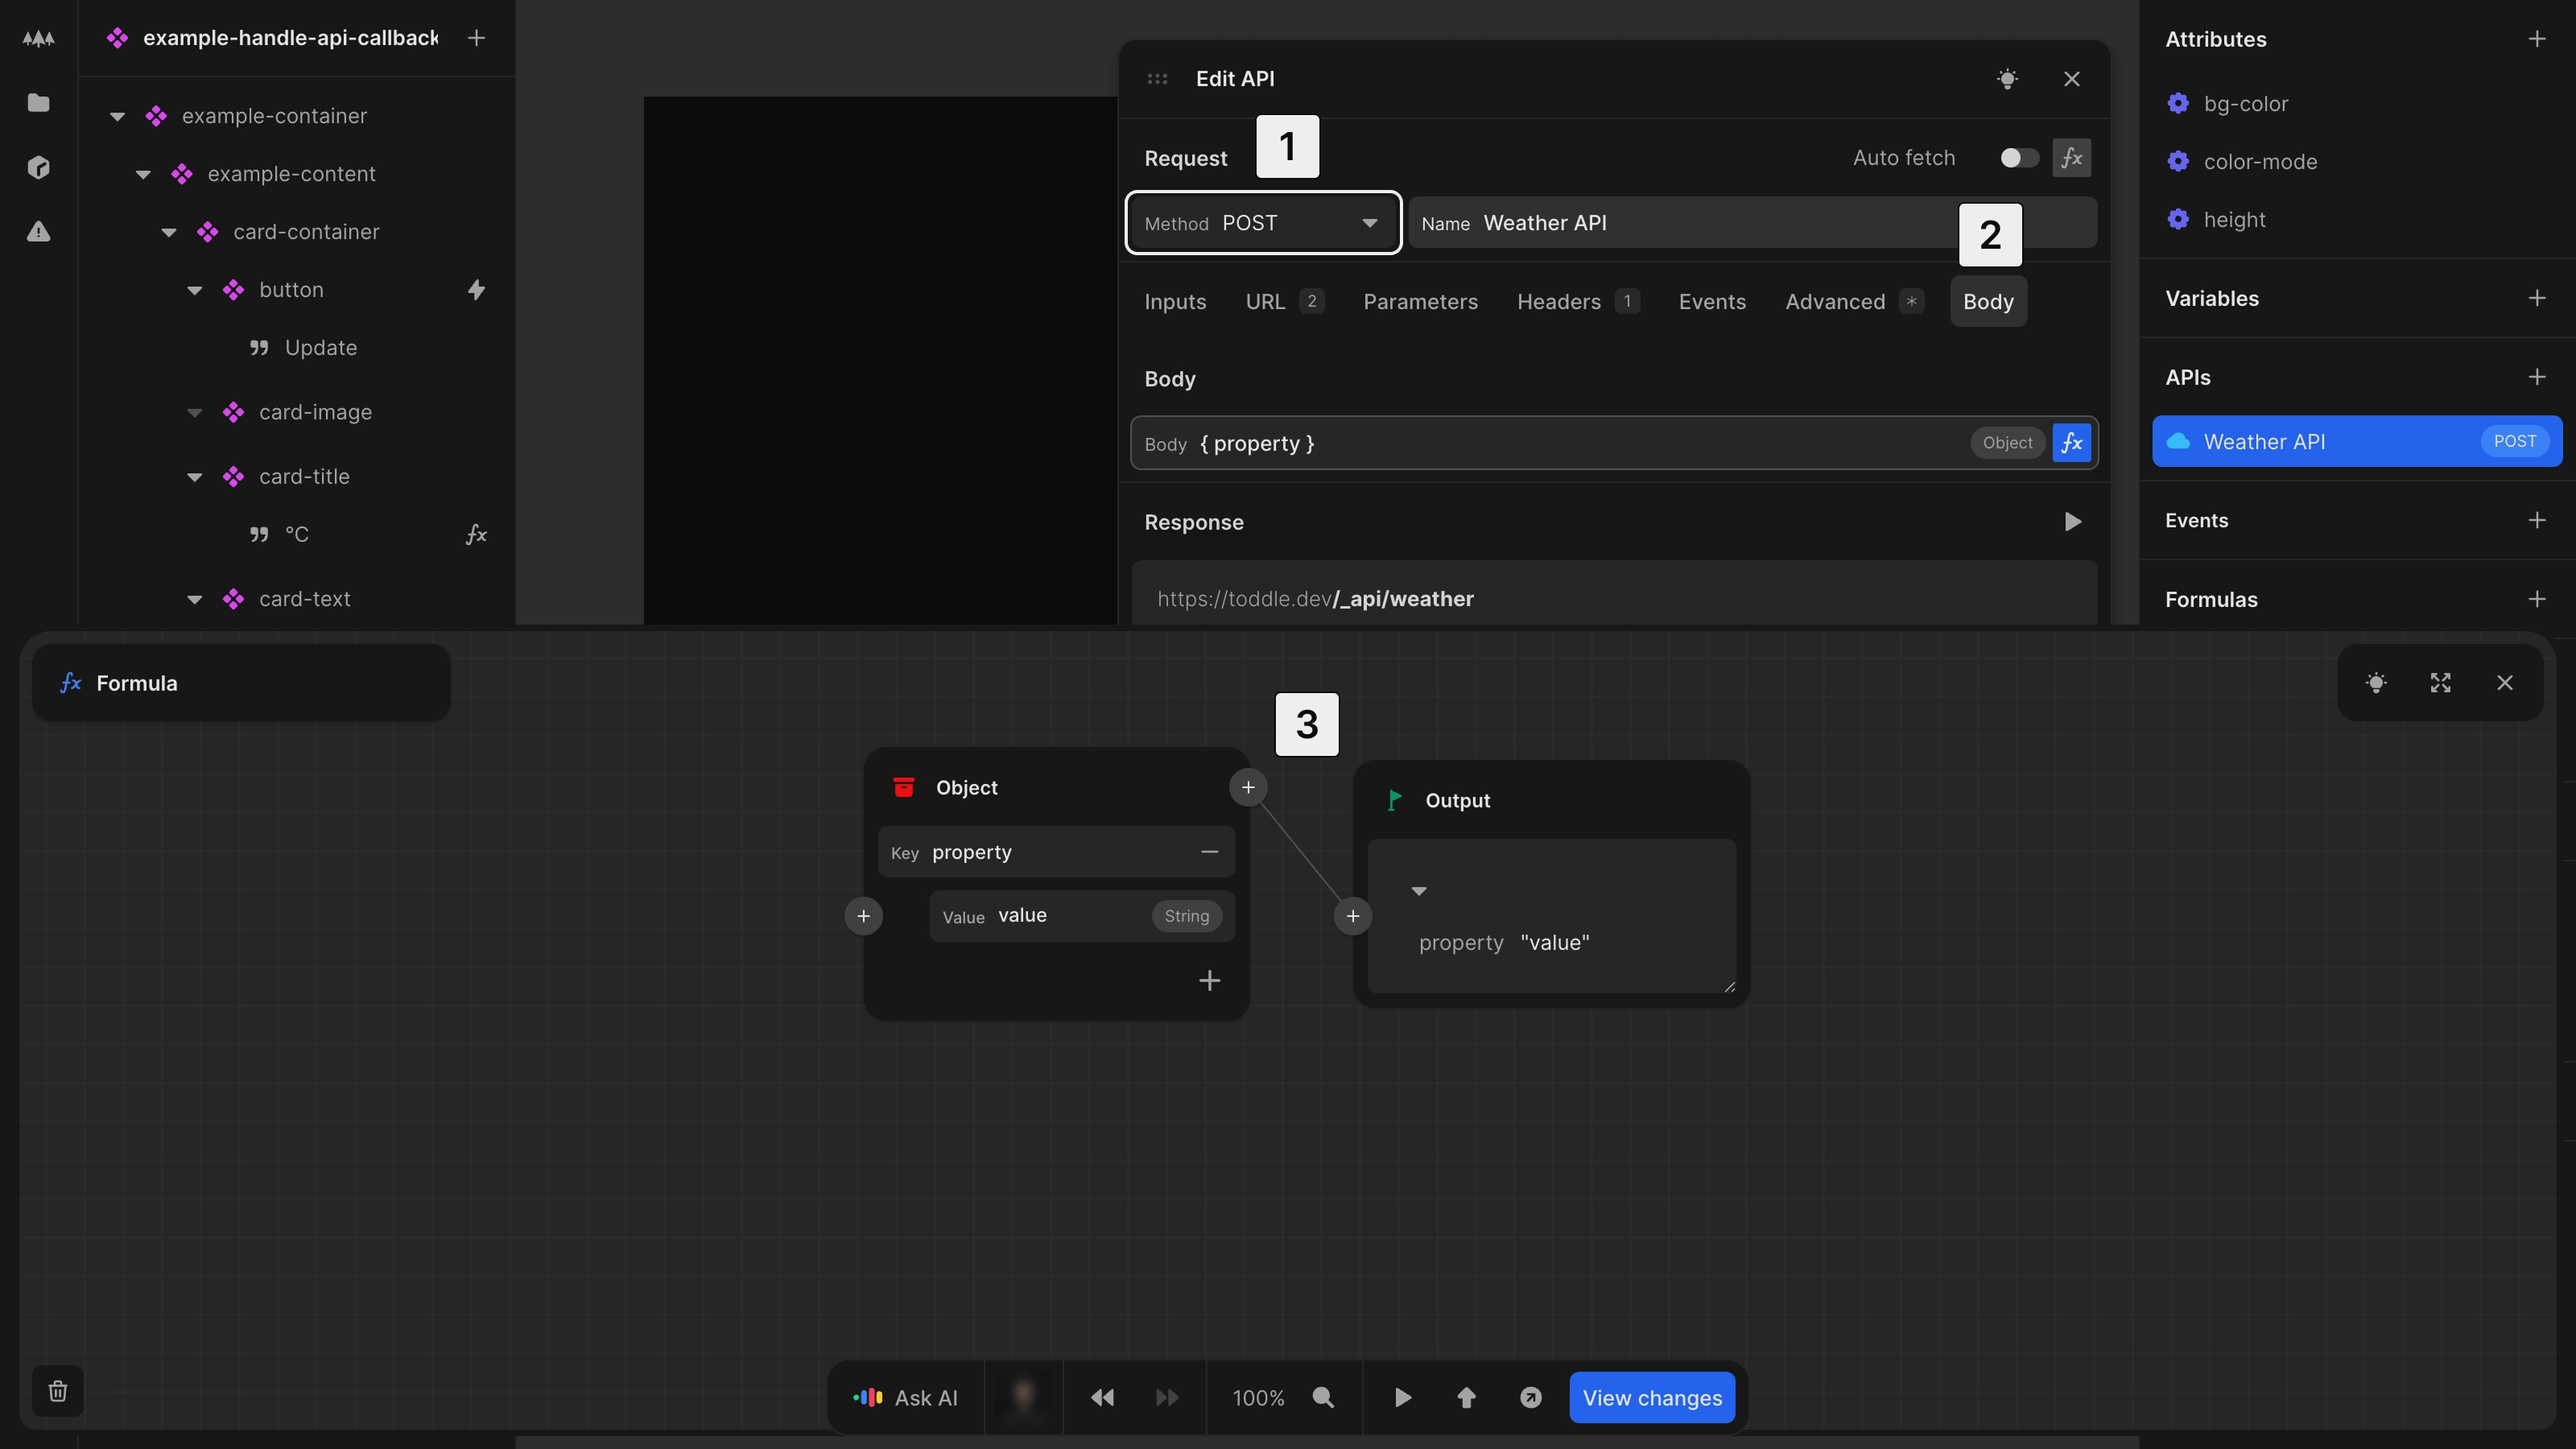
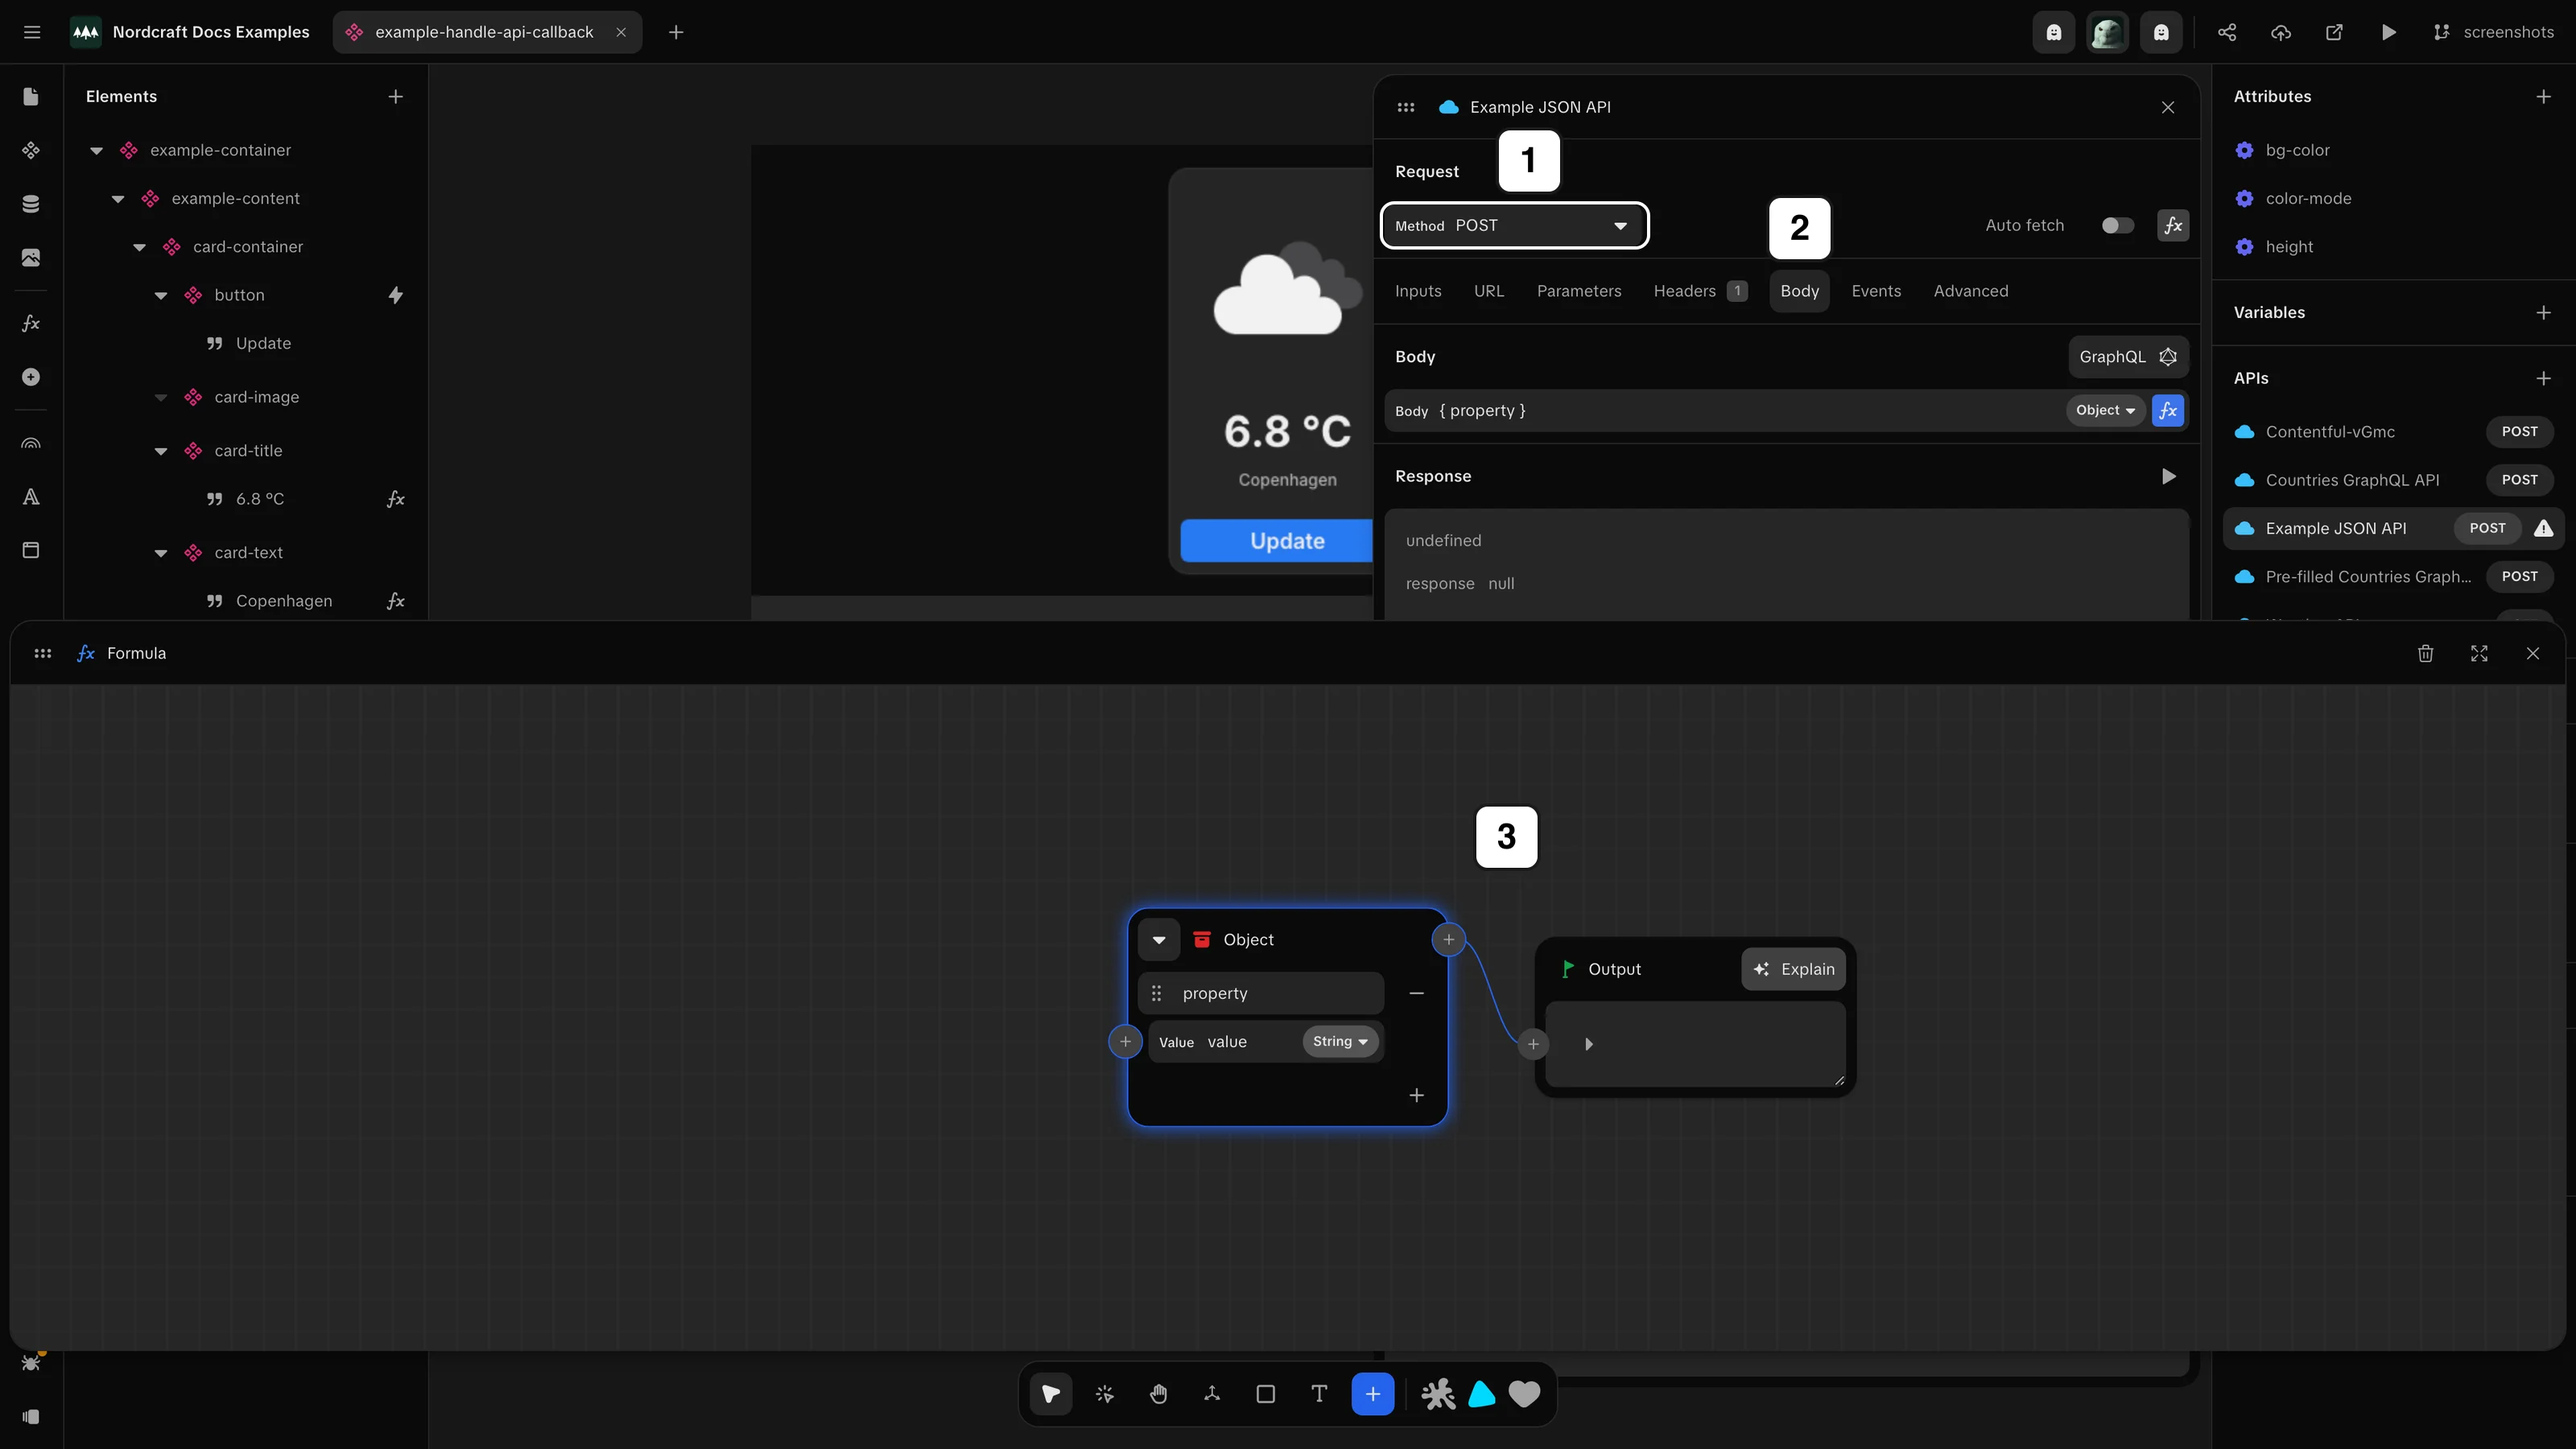
Fix annotation

diff --git a/docs/connecting-data/working-with-apis/set-a-request-body.screenshot.ts b/docs/connecting-data/working-with-apis/set-a-request-body.screenshot.ts
@@ -1,0 +1,41 @@
+import { defineScreenshot } from '@/scripts/capture-screenshots'
+import type { Page } from 'playwright'
+
+// Placeholder script for set-a-request-body.webp
+export default defineScreenshot({
+  path: '/projects/docs_examples/branches/screenshots/components/example-handle-api-callback?mode=design&canvas-tool=select&canvas-width=800&selection=apis.Example%2520JSON%2520API&rightpanel=style',
+  setup: async (page: Page) => {
+    await page.waitForTimeout(500)
+    await page.getByRole('tab', { name: 'Body' }).click()
+    await page.getByRole('button', { name: 'Edit formula for Body' }).click()
+    await page.locator('#formula-editor').click() // blur
+  },
+  annotations: [
+    {
+      type: 'badge',
+      x: 465,
+      y: 40,
+      text: '1',
+    },
+    {
+      type: 'badge',
+      x: 549,
+      y: 61,
+      text: '2',
+    },
+    {
+      type: 'badge',
+      x: 458,
+      y: 250,
+      text: '3',
+    },
+    {
+      type: 'box',
+      x: 429,
+      y: 63,
+      width: 83,
+      height: 14,
+      rx: 4,
+    },
+  ],
+})
